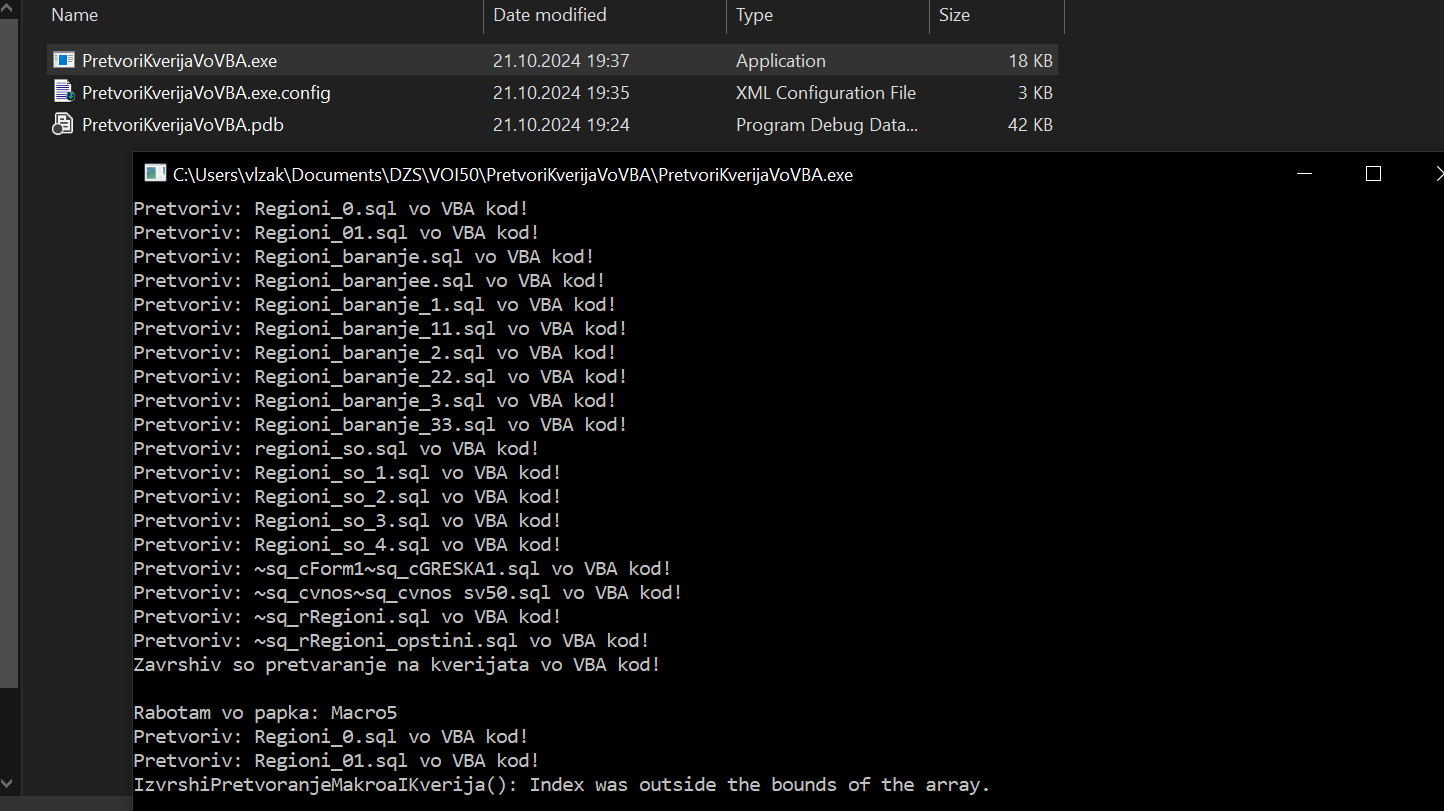
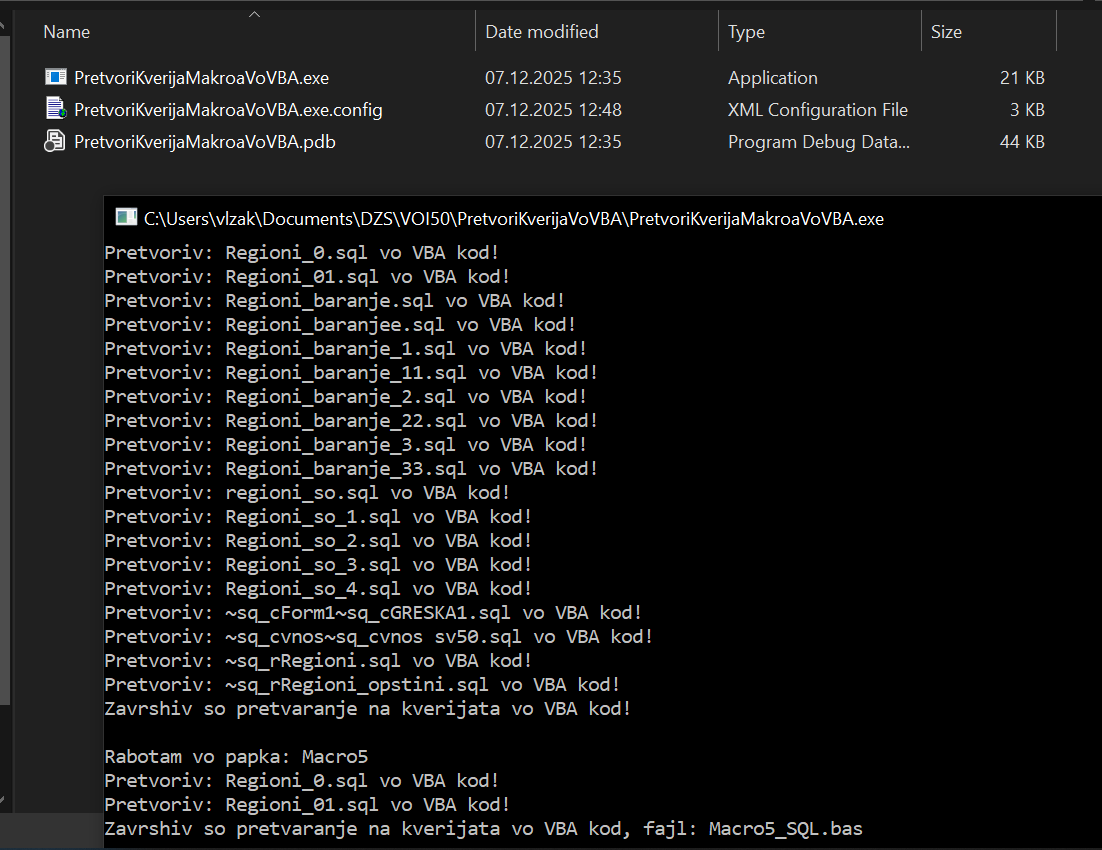
Заменив тест табелите да се повикуваат како константи од фајлот за имиња на табели кој се добива посебно. Исто така додадов нови слики кои имаат копче за додавање на тест табели како и копче за бришење на истите. Додадов и тест код за истите во Readme.md

diff --git a/PretvoriKverijaMakroaVoVBA/PretvoriJetSQLKverijaVoVBAUtils.cs b/PretvoriKverijaMakroaVoVBA/PretvoriJetSQLKverijaVoVBAUtils.cs
@@ -268,7 +268,16 @@ namespace PretvoriKverijaMakroaVoVBA
             foreach (string tbl in Properties.Settings.Default.iminijaTabeli)
             {
                 string[] parTabeli = tbl.Split(PretvoriJetSQLKverijaVoVBAUtils.ODDELUVACH_ZA_IMINJA_NA_TABELI);
-                zamenaIminjaTabeli.Add(parTabeli[1]);
+
+                if (!zamenaIminjaTabeli.Contains(parTabeli[1]))
+                {
+                    zamenaIminjaTabeli.Add(parTabeli[1]);
+
+                    if (parTabeli[2].Equals("0"))
+                    {
+                        zamenaIminjaTabeli.Add(parTabeli[1] + "_TEST");
+                    }
+                }
             }
 
             // gi stava konstantite pred da se vmetne kodot na glavnata makro-funkcija
@@ -287,6 +296,9 @@ namespace PretvoriKverijaMakroaVoVBA
         // TODO da se zamenat zakucanite iminja na tabeli so tie od konfiguracija
         public static void DodajTestTabeli()
         {
+            List<string> pomIminjaTabeli = new List<string>();
+            string imeTabela = string.Empty;
+            string imeTestTabela = string.Empty;
             string fileName = Properties.Settings.Default.IME_NA_IZVEZEN_FAJL;
             StringBuilder ishod = new StringBuilder();
 
@@ -301,17 +313,27 @@ namespace PretvoriKverijaMakroaVoVBA
             {
                 string[] parTabeli = tbl.Split(PretvoriJetSQLKverijaVoVBAUtils.ODDELUVACH_ZA_IMINJA_NA_TABELI);
 
-                if (parTabeli[2] == "0")
+                if (!pomIminjaTabeli.Contains(parTabeli[1]))
                 {
-                    ishod.Append("    sql = \"select " + parTabeli[1] + ".* into " + parTabeli[1] + "_TEST from " + parTabeli[1] + "\" " + Environment.NewLine);
-                    ishod.Append("    Debug.Print sql" + Environment.NewLine);
-                    ishod.Append("    DoCmd.RunSQL (sql) " + Environment.NewLine);
-                    ishod.Append(Environment.NewLine);
+                    pomIminjaTabeli.Add(parTabeli[1]);
+
+                    if (parTabeli[2] == "0")
+                    {
+                        imeTabela = Properties.Settings.Default.IME_FAJL_TABELI_KONSTANTI.Split('.')[0] + "." + PRETSTAVKA_IME_TABELA_KONSTANTA + parTabeli[1].ToUpper();
+                        imeTestTabela = imeTabela + "_TEST";
+                        ishod.Append("    sql = \"select \" & " + imeTabela + " & \".* into \" & " + imeTestTabela + " & \" from \" & " + imeTabela + " " + Environment.NewLine);
+                        ishod.Append("    Debug.Print sql" + Environment.NewLine);
+                        ishod.Append("    DoCmd.RunSQL (sql) " + Environment.NewLine);
+                        ishod.Append(Environment.NewLine);
+                    }
                 }
             }
 
             ishod.Append("    DoCmd.SetWarnings True" + Environment.NewLine);
             ishod.Append("End Sub" + Environment.NewLine);
+
+            // ----- dodaj kod za brishenje test tabeli -----
+            pomIminjaTabeli = new List<string>();
 
             ishod.Append(Environment.NewLine);
             ishod.Append("Public Sub brishiMegjuTabeli()" + Environment.NewLine);
@@ -323,12 +345,22 @@ namespace PretvoriKverijaMakroaVoVBA
             {
                 string[] parTabeli = tbl.Split(PretvoriJetSQLKverijaVoVBAUtils.ODDELUVACH_ZA_IMINJA_NA_TABELI);
 
-                if (parTabeli[2] == "0")
+                if (!pomIminjaTabeli.Contains(parTabeli[1]))
                 {
-                    ishod.Append("    sql = \"drop table " + parTabeli[1] + "_TEST\"" + Environment.NewLine);
-                    ishod.Append("    Debug.Print sql" + Environment.NewLine);
-                    ishod.Append("    DoCmd.RunSQL sql" + Environment.NewLine);
-                    ishod.Append(Environment.NewLine);
+                    pomIminjaTabeli.Add(parTabeli[1]);
+
+                    if (parTabeli[2] == "0")
+                    {
+                        imeTabela = Properties.Settings.Default.IME_FAJL_TABELI_KONSTANTI.Split('.')[0] + "." + PRETSTAVKA_IME_TABELA_KONSTANTA + parTabeli[1].ToUpper();
+                        imeTestTabela = imeTabela + "_TEST";
+                        ishod.Append("    If Utils.daliTabelataPostoi(" + imeTestTabela + ", CurrentDb) Then " + Environment.NewLine);
+                        ishod.Append("        sql = \"drop table \" & " + imeTestTabela + " " + Environment.NewLine);
+                        ishod.Append("        Debug.Print sql" + Environment.NewLine);
+                        ishod.Append("        DoCmd.RunSQL sql" + Environment.NewLine);
+                        ishod.Append("    End If");
+                        ishod.Append(Environment.NewLine);
+                        ishod.Append(Environment.NewLine);
+                    }
                 }
             }
 

diff --git a/README.md b/README.md
@@ -216,7 +216,62 @@ End Sub
 
 ```
 каде се вметнаа главната функција на макрото, со повикување на кверијата, како и методата за бришење на меѓу-табелите, каде во случајов само TabelaNasMesta е излистана бидејќи е меѓу-табела, додека TabelaVnes е серверска табела.
-# Чекор 4 - Исправки на створените фајлови и нивна употреба 
+Инаку во папката каде се извезоа кверијата, ќе се створи фајл imeXLSFajl.bas каде ќе се повикаат сите кверија од проектот во процедурата IzvrshiKverija().
+Така на дното од овој фајл ќе се додадат функциите:
+
+```
+Public Sub DodajTestTabeli()
+    Dim sql as String
+    DoCmd.SetWarnings False
+
+    sql = "select " & VOI50_IminjaTabeli.TBL_TABELAVNES & ".* into " & VOI50_IminjaTabeli.TBL_TABELAVNES_TEST & " from " & VOI50_IminjaTabeli.TBL_TABELAVNES 
+    Debug.Print sql
+    DoCmd.RunSQL (sql) 
+
+    sql = "select " & VOI50_IminjaTabeli.TBL_TABELANASMESTA & ".* into " & VOI50_IminjaTabeli.TBL_TABELANASMESTA_TEST & " from " & VOI50_IminjaTabeli.TBL_TABELANASMESTA 
+    Debug.Print sql
+    DoCmd.RunSQL (sql) 
+
+    DoCmd.SetWarnings True
+End Sub
+
+Public Sub brishiMegjuTabeli()
+    Dim sql as String
+    DoCmd.SetWarnings False
+
+    If Utils.daliTabelataPostoi(VOI50_IminjaTabeli.TBL_TABELAVNES_TEST, CurrentDb) Then 
+        sql = "drop table " & VOI50_IminjaTabeli.TBL_TABELAVNES_TEST 
+        Debug.Print sql
+        DoCmd.RunSQL sql
+    End If
+
+    If Utils.daliTabelataPostoi(VOI50_IminjaTabeli.TBL_TABELANASMESTA_TEST, CurrentDb) Then 
+        sql = "drop table " & VOI50_IminjaTabeli.TBL_TABELANASMESTA_TEST 
+        Debug.Print sql
+        DoCmd.RunSQL sql
+    End If
+
+    DoCmd.SetWarnings True
+End Sub
+```
+
+кои ќе ги повикаме на копче во главната форма:
+
+```
+Private Sub brishiMegjuTabeliBtn_Click()
+    Call VOI50_Proba.brishiMegjuTabeli
+End Sub
+
+Private Sub dodajTestTabeliBtn_Click()
+    Call VOI50_Proba.DodajTestTabeli
+End Sub
+```
+Инаку првата функција ќе створи тест табели од серверските, и истите ќе имаат и дизајн како на серверските табели. Ова е погодно да тестираме нови кверија на тест табели наместо на серверси. 
+Исто така подоле има функција за бришење на додадените тест табели која ќе ја повикаме на копче. 
+Вака имаме листинг на тоа кои табели во иднина нема да ни требаат во Акцес, и истите може да ги избришеме на копче. Погодно за архивирање на Акцес апликација. 
+Тест табелите може да зафаќаат простор. 
+
+# Чекор 5 - Исправки на створените фајлови и нивна употреба 
 - Бидејќи претворачот може неколку пати да најде имиња на табели кои се содржат во други имиња на табели, ова значи дека во потписот на ВБА методите ќе се додадат дупликат параметри кои треба да се избришат пешки бидејќи засега, овој проблем не е решен. Функција во ВБА не може да има два параметри со исто име. 
 - Се случува дадено квери да е доста долго, па иако има код за да ја расцепи линијата на две или повеќе пократки линии, сепак може да прекорачи одреден број на букви во линија. Притоа, оваа линија мора да се најде и расцепи рачно, за да го искомпајлира Акцес фајлот новиот код. Треба ескуел кодот кој се добива како исход од функцијат да биде важечки ескуел код за да може да го изврши DoCmd.RunSQL наредбата. 
 - Новиот ВБА модул се додава во Акцес со наредбата Database tools -> Visual Basic Editor -> Modules -> Import file -> ime_na_vba_modul_SQL.bas. Притоа мора задожително да се искомпајлира овој нов фајл со наредбата Debug -> Compile. Доколку не се искомпајлира, и се појави порака за грешка, мора да се поправат сите грешки се додека не се искомпајлира новиот фајл. Повеќе макроа значат повеќе ВБА модули. Истите треба да се додадат во Акцес фајлот, поправат грешките во нив и да се искомпајлира Акцес фајлот со овие нови фајлови. Во примерот погоре, на клик-евент на копче би се повикала функцијата Macro5(). Притоа ако сме сигурни дека се е во ред, ќе ја одкоментираме линијата со „Call brishiMegjuTabeli“ и ќе искомпајлираме повторно. Така секој пат, ВБА модулот ќе ги брише меѓу-табелите откако ќе се добие тоа што сакаме, се разбира доколку не се брише табелата во која се наоѓа крајниот исход на макрото, пример излезна табела за објавување. 
